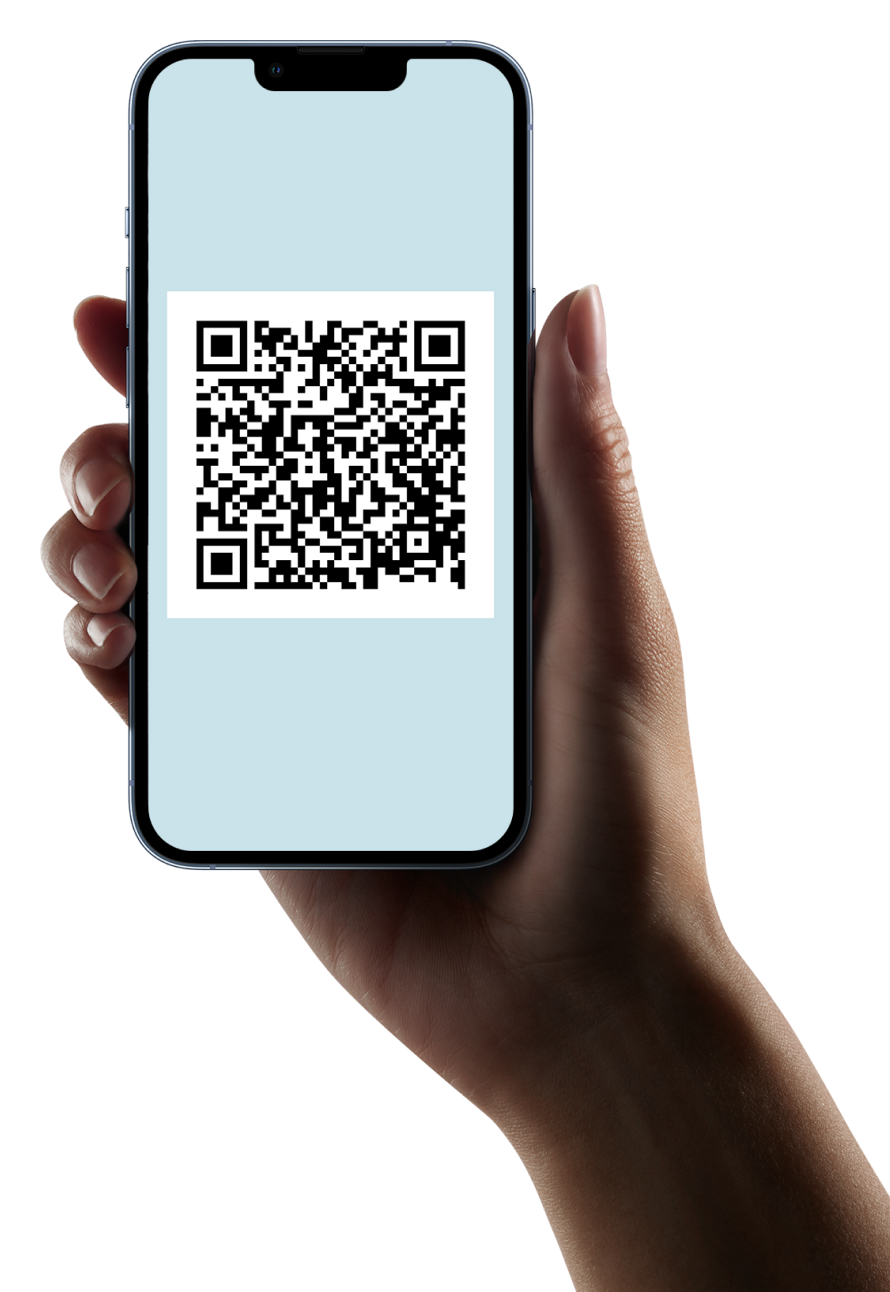
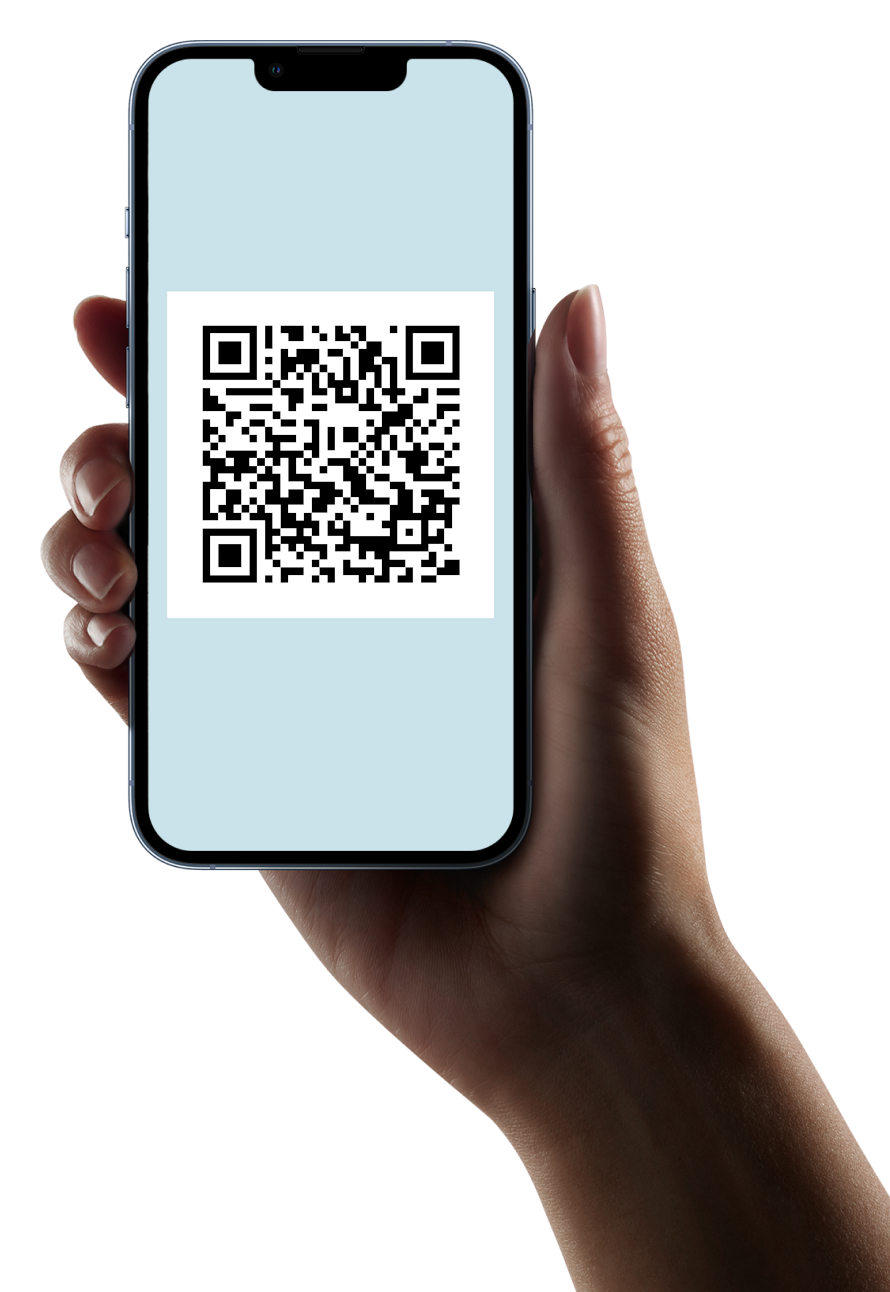
Fix donation LNURLp images and links

Changed region(s): [[0.2124, 0.2477, 0.5461, 0.4644]]

diff --git a/src/index.html b/src/index.html
@@ -88,7 +88,7 @@
 		<p>Thank you!</p>
 	    </div>
 	     <div>
-		<a href="lightning:LNURL1DP68GURN8GHJ7MR9VAJKUEPWD3HXY6T5WVHXXMMD9AKXUATJD3CZ7DN8GUE4WCGS0D0DN"><img src="../images/donate-phone.png" class="donate"/></a>
+		<a href="lightning:LNURL1DP68GURN8GHJ7ER9D4HJUMRWWP5KWEME9E3K7MF0D3H82UNVWQHNVN2Y2D95ULP9MGQ"><img src="../images/donate-phone.png" class="donate"/></a>
 	    </div>
 	</div>
         <div class="main-content" id="content5">
@@ -188,9 +188,9 @@
     }
 
     function populateFeatureGallery() {
[6 lines of base64/hex data omitted]
       let featuresHTML = "";
       for (let featurenr=0; featurenr<features.length; featurenr++) {
         featuresHTML += '<div class="feature" id="feature' + featurenr + '"><a href="lightning:' + features[featurenr][2] + '"><img class="qrcode" src="../images/' + features[featurenr][2] + '.png" alt="QR code that can be paid with bitcoin lightning wallet"/></a><div class="featuredetail"><img class="featureheadericon" src="../images/' + features[featurenr][3] + '.svg" alt="' + features[featurenr][3] + '"/><h3>' + features[featurenr][0] + '</h3><p>' + features[featurenr][1] + '</p></div></div>';
